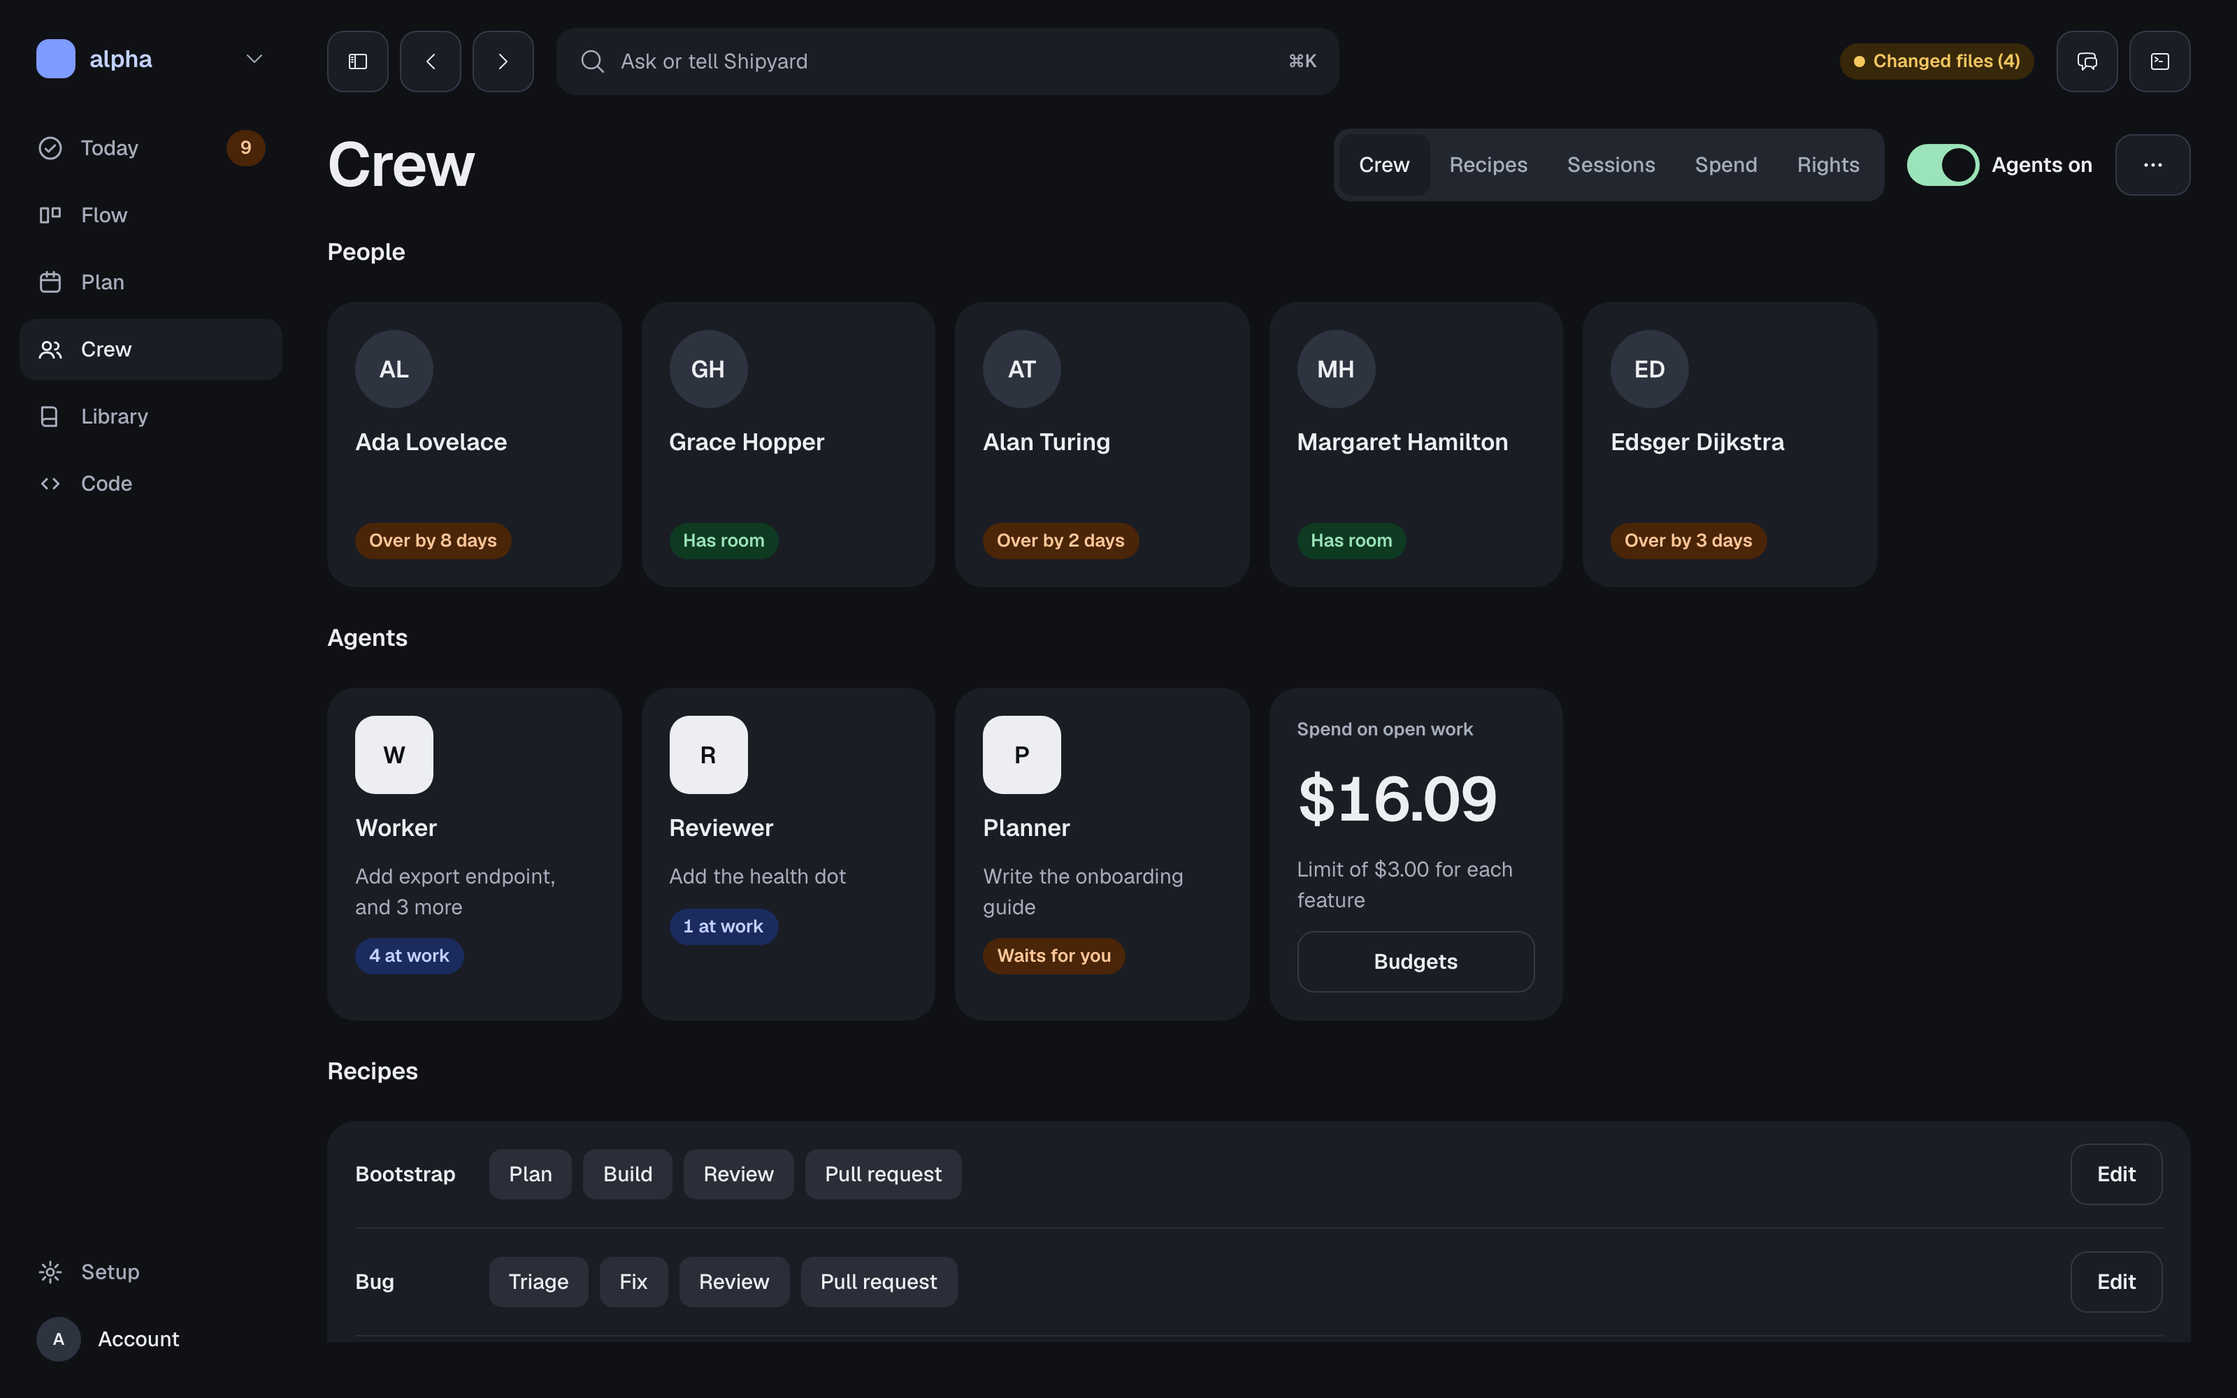
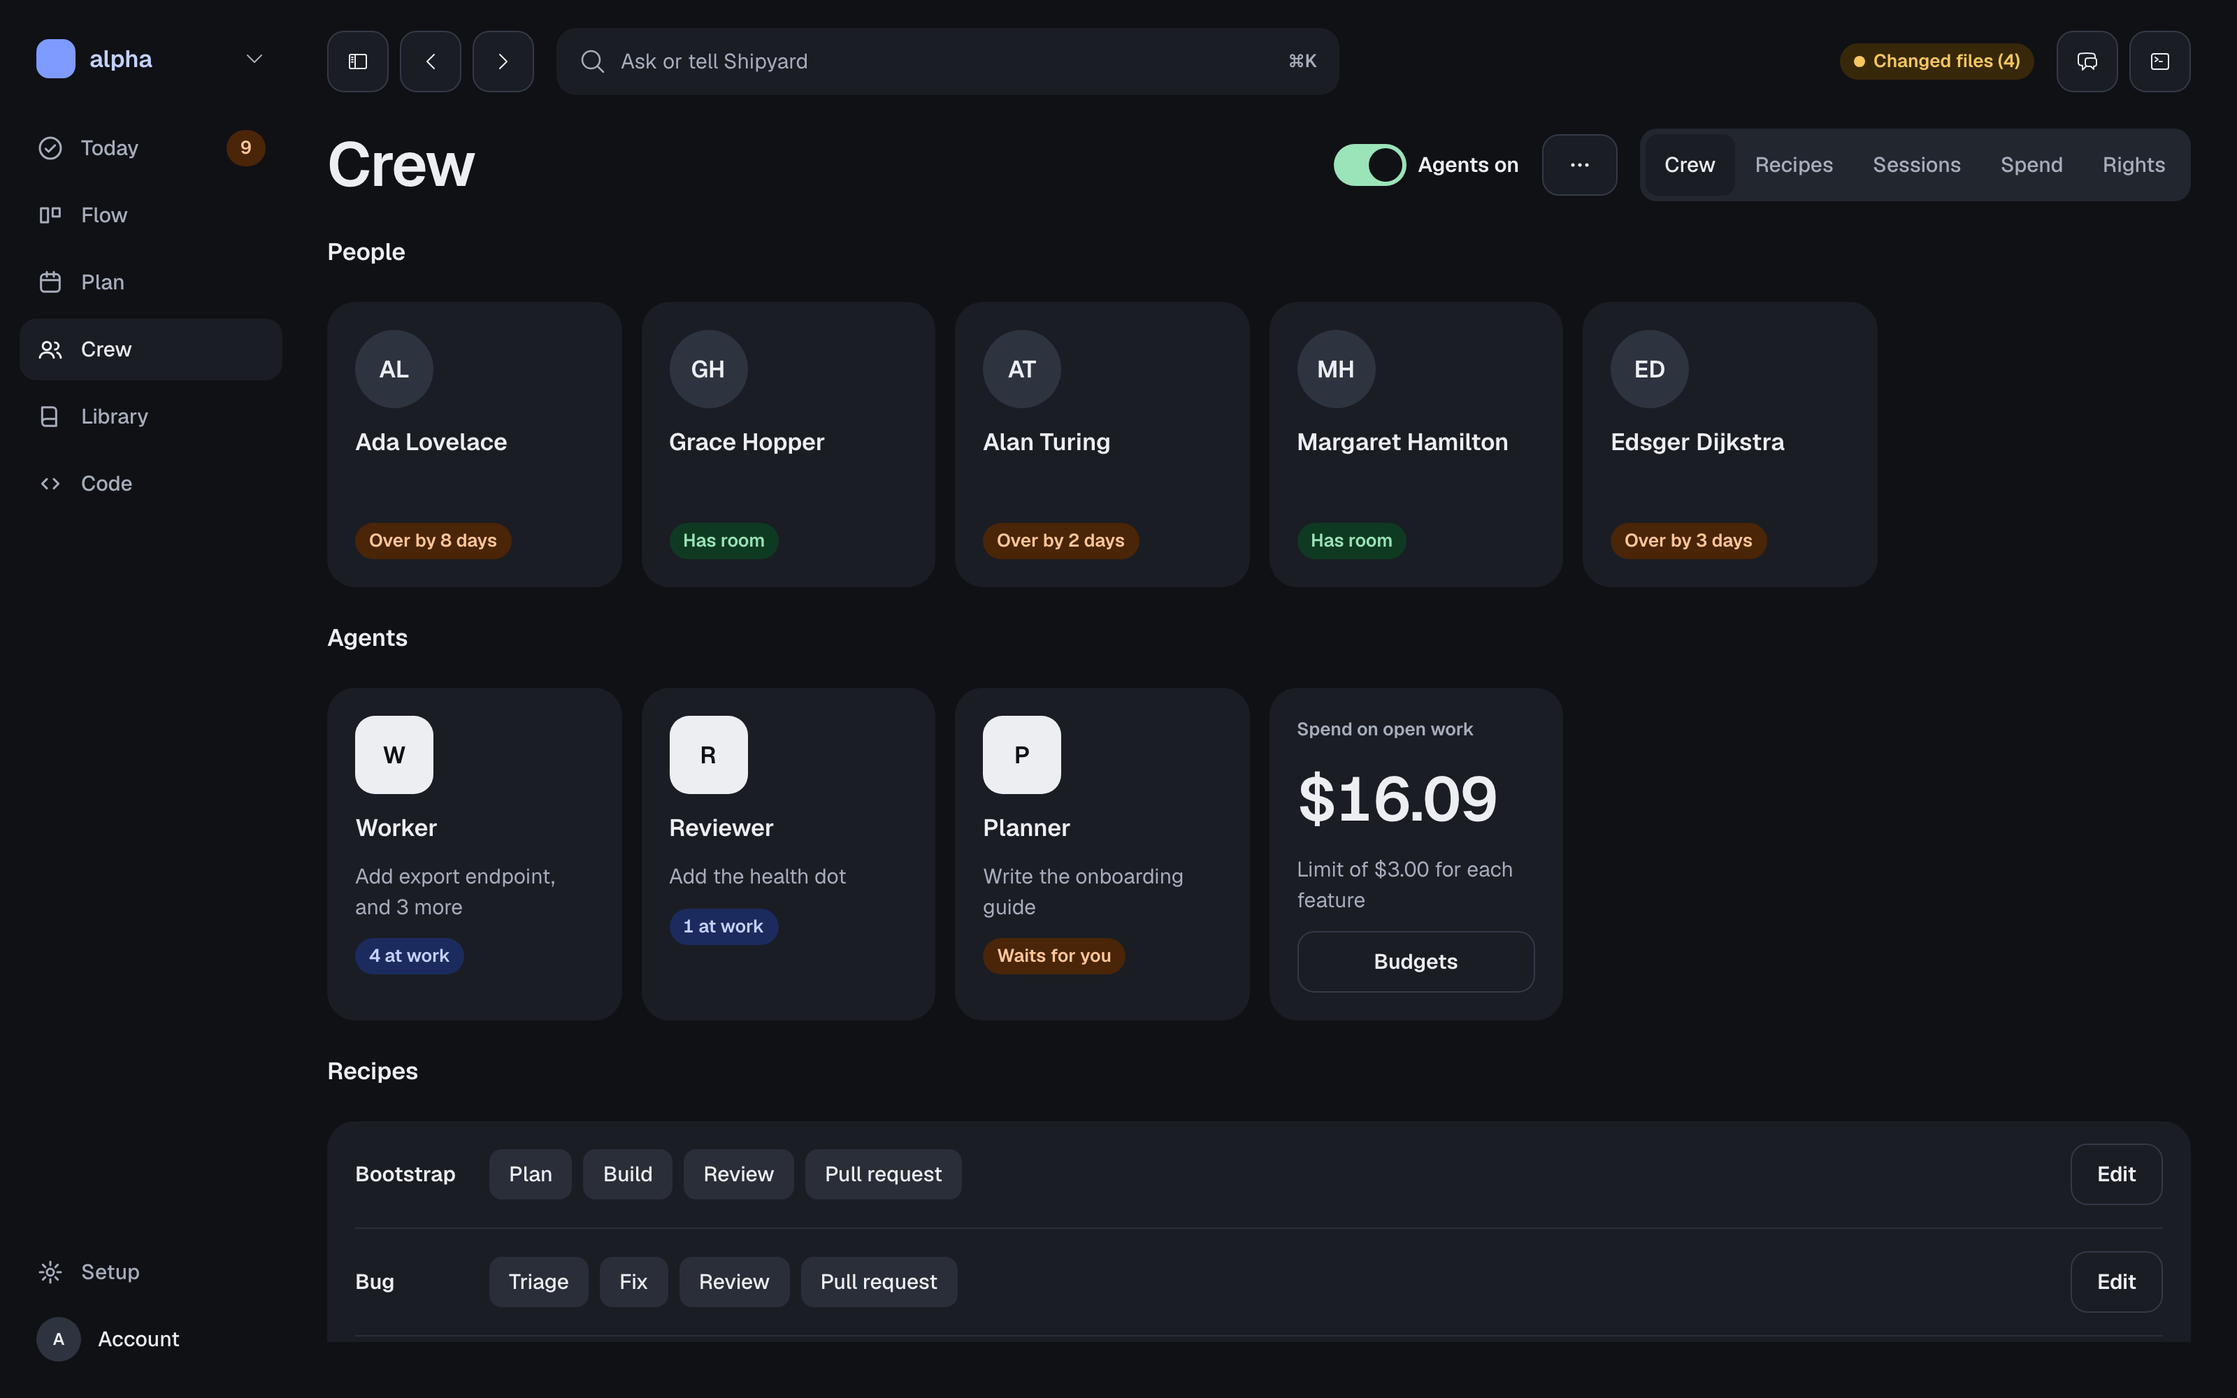
fix(ui): keep the section tabs still, fit the Flow stages, from a walk of the real window
A walk of the real window of the built app, with real clicks, showed
five defects at the default window size:
- The section switch moved sideways when the actions of a page changed.
  It is now the last part of the title row, at the right edge.
- The fifth stage of Flow was cut. The five stages fit 1280 px.
- Crew / Sessions said No sessions above the sessions of this computer.
- A session showed a placeholder as its model.
- The actions of a step of Setup / Start sat at the fold.

Docs: each task of add-windows-relay-pipe is done, the proved acceptance
boxes are ticked in the settled specs, 23 screenshots follow.

Changed region(s): [[0.5938, 0.093, 0.9688, 0.155]]

diff --git a/src/features/crew/sessions.tsx b/src/features/crew/sessions.tsx
@@ -3,7 +3,13 @@ import { useContext, useMemo, useRef, useState } from "react";
 import { nameOf } from "@/features/factory/runs/run-live";
 import { NoProject } from "@/features/shell/no-project";
 import { useGuard } from "@/features/work/guard";
-import { useFactoryWrites, useRunActions, useRuns, useSessions } from "@/lib/factory";
+import {
+	useFactoryWrites,
+	useMachineSessions,
+	useRunActions,
+	useRuns,
+	useSessions,
+} from "@/lib/factory";
 import { format, useI18n } from "@/lib/i18n";
 import { commands, type SessionView, type UnitView, unwrap } from "@/lib/ipc";
 import { useActiveProject } from "@/lib/projects";
@@ -98,6 +104,7 @@ export function CrewSessions() {
 	const search = useSearch({ strict: false }) as { session?: string; page?: string };
 	const active = useActiveProject().data;
 	const sessions = useSessions();
+	const machine = useMachineSessions().data ?? [];
 	const { rows } = useAgentRows();
 	const writes = useFactoryWrites();
 	const { failure, run } = useGuard();
@@ -193,7 +200,8 @@ export function CrewSessions() {
 
 	const here = rows.filter((r) => !over(r)).toSorted((a, b) => a.id.localeCompare(b.id, lang));
 	const shown = here.find((r) => idOf(r.session) === search.session) ?? here[0];
-	const none = here.length === 0 && !sessions.isPending;
+	// "No sessions" shows only when the card of this machine lists none either.
+	const none = here.length === 0 && machine.length === 0 && !sessions.isPending;
 	// The unit of the session shown: it knows the tool, the folder and the session id.
 	const unit = shown
 		? runs

diff --git a/src/ui/molecules/look.test.tsx b/src/ui/molecules/look.test.tsx
@@ -22,7 +22,9 @@ describe("PageHeader", () => {
 		expect(back.compareDocumentPosition(title) & Node.DOCUMENT_POSITION_FOLLOWING).toBeTruthy();
 	});
 
-	it("draws the section switch of the place before the action, and claims it until it goes", () => {
+	// The switch is the last part of the row: it stays at the right edge, so its tabs do not move
+	// when the actions of a page change.
+	it("draws the section switch of the place after the action, and claims it until it goes", () => {
 		const release = vi.fn();
 		const claim = vi.fn(() => release);
 		const { unmount } = renderApp(
@@ -32,7 +34,7 @@ describe("PageHeader", () => {
 		);
 		const nav = screen.getByRole("navigation", { name: "Scope" });
 		const action = screen.getByRole("button", { name: "Connect" });
-		expect(nav.compareDocumentPosition(action) & Node.DOCUMENT_POSITION_FOLLOWING).toBeTruthy();
+		expect(action.compareDocumentPosition(nav) & Node.DOCUMENT_POSITION_FOLLOWING).toBeTruthy();
 		expect(claim).toHaveBeenCalledOnce();
 		expect(release).not.toHaveBeenCalled();
 		unmount();

diff --git a/src/ui/molecules/page-header.tsx b/src/ui/molecules/page-header.tsx
@@ -50,8 +50,8 @@ export function PageHeader({
 					{chips ? <div className="flex flex-wrap items-center gap-1.5">{chips}</div> : null}
 				</div>
 				{/* The actions go below the title when the space is small; they never cover it. */}
+				{/* The section switch is the last part: it stays at the right edge when the actions of a page change, so its tabs do not move under the pointer. */}
 				<div className="ml-auto flex flex-wrap items-center justify-end gap-4">
-					{slot?.node}
 					{action}
 					{menu?.length ? (
 						<MenuButton
@@ -67,6 +67,7 @@ export function PageHeader({
 							items={menu.map((m) => ({ ...m, id: m.label, onSelect: m.onClick }))}
 						/>
 					) : null}
+					{slot?.node}
 				</div>
 			</div>
 		</div>

diff --git a/src/features/crew/sessions-side.tsx b/src/features/crew/sessions-side.tsx
@@ -20,7 +20,11 @@ const HEAD = "px-6 pt-3.5 pb-1.5 text-13 font-semibold text-n-11";
 const SHAPE = { working: "accent", idle: "warning", done: "neutral", unknown: "neutral" } as const;
 /** A model id in plain words: "claude-opus-4" reads "opus". */
 export const modelName = (m?: string | null) =>
-	(m ?? "").replace(/^claude-/, "").replace(/-[\d.-]+$/, "");
+	// A placeholder such as `<synthetic>` is no model name.
+	(m ?? "")
+		.replace(/^<.*>$/, "")
+		.replace(/^claude-/, "")
+		.replace(/-[\d.-]+$/, "");
 const known = (s: string): s is keyof typeof SHAPE => s in SHAPE;
 
 /** The AI sessions of this computer, started by Shipyard or not, each with its stop. Rows of the card "On this machine". */

diff --git a/src/features/onboarding/start.tsx b/src/features/onboarding/start.tsx
@@ -195,8 +195,8 @@ export function SetupStart() {
 							onPick={(id) => setPrefs({ defaultAgent: id, defaultModel: "" })}
 						/>
 					) : null}
-					{/* The actions of the step are the foot of the panel. */}
-					<div className="mt-auto flex flex-wrap items-end justify-end gap-2.5">
+					{/* The actions sit under the choices, not at the foot: a short window still shows them. */}
+					<div className="flex flex-wrap items-start justify-end gap-2.5">
 						{next ? (
 							<Button className="min-h-control" onClick={() => setChosen(next)}>
 								{s.skip}

diff --git a/src/features/flow/flow-page.tsx b/src/features/flow/flow-page.tsx
@@ -455,7 +455,8 @@ function FlowPage({ view }: { view: "flow" | "list" | "done" }) {
 				) : null}
 				{view === "flow" ? (
 					<div className="min-h-0 flex-1 overflow-auto p-0.5">
-						<div className="grid min-w-[65rem] grid-cols-5 items-start gap-3.5">
+						{/* 60rem: the five stages fit the default window (1280 px) beside the menu. */}
+						<div className="grid min-w-[60rem] grid-cols-5 items-start gap-3.5">
 							{STAGES.map((stage) => {
 								const cards = shown.filter((f) => f.stage === stage);
 								const label = t.flow.stages[stage];

diff --git a/docs/openspec/specs/app-redesign/spec.md b/docs/openspec/specs/app-redesign/spec.md
@@ -107,23 +107,23 @@ Look pass 2, Library
 
 ### Acceptance Criteria
 
-- [ ] The menu shows the six places and Setup, and no page shows two section switches.
+- [x] The menu shows the six places and Setup, and no page shows two section switches.
 - [x] The inventory test passes: each route and each palette action of today opens or runs.
-- [ ] The Ask bar answers "what blocks MVP 1" with the blocked features and one action for each.
+- [x] The Ask bar answers "what blocks MVP 1" with the blocked features and one action for each.
 - [x] A viewer sees no Code place. A tester opens Flow / Health.
-- [ ] Today shows one question with its answer controls, and the count in its title.
-- [ ] Each of the 16 run states shows in one stage of Flow, with the right mark.
-- [ ] One approval sends a feature for review, and names the pull request and the ticket move.
+- [x] Today shows one question with its answer controls, and the count in its title.
+- [x] Each of the 16 run states shows in one stage of Flow, with the right mark.
+- [x] One approval sends a feature for review, and names the pull request and the ticket move.
 - [x] Each stop state shows its one action.
-- [ ] Crew shows people and agents, and the live work has no crossing lines.
-- [ ] Plan shows the end date in its title and one card for the capacity problems.
-- [ ] Each view of Design and Knowledge opens from a Library door.
-- [ ] Health shows the gates to a role with no code right.
-- [ ] Setup shows the three scopes, and a search of the settings finds no setting in two places.
-- [ ] The accessibility run finds no control under 44 px and no sideways scroll at 960 by 600.
-- [ ] The four languages are complete, and no text says "tracker" or "forge" alone.
-- [ ] An agent proposes an estimate, a fix feature and a dashboard tile, and nothing changes before the person accepts.
-- [ ] Each Library sub-page of REQ-034 opens at its own address with a back link, and each control that moved is in the More menu, a sub-page or the Ask bar.
+- [x] Crew shows people and agents, and the live work has no crossing lines.
+- [x] Plan shows the end date in its title and one card for the capacity problems.
+- [x] Each view of Design and Knowledge opens from a Library door.
+- [x] Health shows the gates to a role with no code right.
+- [x] Setup shows the three scopes, and a search of the settings finds no setting in two places.
+- [x] The accessibility run finds no control under 44 px and no sideways scroll at 960 by 600.
+- [x] The four languages are complete, and no text says "tracker" or "forge" alone.
+- [x] An agent proposes an estimate, a fix feature and a dashboard tile, and nothing changes before the person accepts.
+- [x] Each Library sub-page of REQ-034 opens at its own address with a back link, and each control that moved is in the More menu, a sub-page or the Ask bar.
 
 ### Existing References
 

diff --git a/.agents/progress/ux-review.md b/.agents/progress/ux-review.md
@@ -104,10 +104,13 @@ A full review of each screen and each state of the app after the redesign. The a
 - The owner gave Screen Recording access. A picture of the real window of the built app (a portable copy with its own data) showed two defects of Code / History that the browser pictures do not show: both are fixed. Accessibility access is still off, so no tool clicks in the window.
 - Windows relay tests (T005): two tests prove the relay with a real server process on each system, through the example `fake_mcp`; a third reads the access list of the pipe. They are in two local commits. The push is refused by the company proxy (Zscaler, HTTP 403 on the upload), so the Windows job has not run them.
 
+- The owner gave Accessibility access. A walk of the real window of the built app (portable copy, real clicks, 21 pictures of the seven places and their section tabs) found five defects that the browser checks do not show at the default window size: the fifth stage of Flow was cut, the section tabs moved sideways between the pages of a place, Crew / Sessions said No sessions above four sessions, a session showed `<synthetic>` as its model, and the actions of a Setup step sat at the fold. All are fixed and seen fixed in the real window.
+- Windows relay tests: the Windows job ran them on the temporary branch `ci/windows-relay-tests` and passed. Task T005 of `add-windows-relay-pipe` is done.
+
 ## Open
 
-1. `add-windows-relay-pipe` T005: three tests that run on Windows only. They need a fake MCP server that runs on Windows. The read timeout (T006) is done.
+1. `add-windows-relay-pipe`: each task is done. The change waits for its archive.
 2. An agent of a run starts with each MCP server of the person's own Claude Code set-up. The owner keeps it so (2026-11-27).
 3. The comment button of a diff line is 24 px, by decision (see Decisions).
 4. The browser mock does not lower the rights of a member who is not an admin from a personal role.
-5. The windows of the installed app are not driven by a tool: macOS gives this session no accessibility access and no screen recording access. The checks ran on the browser build, on the outside server of the built app and on the run log of a real run.
+5. The walk of the real window covered the seven places and their section tabs on a project with no ticket and no run. The pages of a feature and of a run were checked in the browser build only.

diff --git a/CHANGELOG.fr.md b/CHANGELOG.fr.md
@@ -1,6 +1,8 @@
 # Journal des modifications
 
 ## [0.2.0]
+- Le sélecteur de section d'une page reste au bord droit de la ligne du titre : ses onglets ne bougent plus quand les actions d'une page changent. Les cinq étapes de Flux tiennent dans la fenêtre par défaut.
+- Équipe / Sessions ne dit plus Aucune session au-dessus d'une liste de sessions de cet ordinateur, et une session n'affiche plus un texte de remplacement comme modèle. Les actions d'une étape de Configuration / Démarrer sont sous ses choix.
 - Code / Historique : le message d'un commit garde sa place à côté d'un long nom de branche, et le texte d'un commit se lit en paragraphes, sans lignes courtes coupées.
 - Une deuxième passe a tranché chacun des 93 constats de la revue des écrans et corrigé 43 mises en page en tout : lignes et boutons alignés dans Équipe, Code, Plan, Bibliothèque et Configuration, états vides avec des mots, une seule hauteur pour les contrôles d'une ligne, texte lisible dans la visite, et le mot Arrêter sur les lignes de session.
 - Une passe sur chaque écran a corrigé ces mises en page : le bouton Commit de Code reste sur la ligne du message ; le cinquième chiffre d'Équipe / Dépenses / Utilisation est sur la ligne des autres ; le mois de Mon temps tient sur une ligne de jours ; Passer est au pied d'une étape de Configuration / Démarrer, et ses trois cartes remplissent la ligne.

diff --git a/CHANGELOG.md b/CHANGELOG.md
@@ -1,6 +1,8 @@
 # Changelog
 
 ## [0.2.0]
+- The section switch of a page stays at the right edge of the title row: its tabs no longer move when the actions of a page change. The five stages of Flow fit the default window.
+- Crew / Sessions no longer says No sessions above a list of sessions of this computer, and a session shows no placeholder as its model. The actions of a step of Setup / Start sit under its choices.
 - Code / History: the message of a commit keeps its room beside a long branch name, and the text of a commit reads as paragraphs, with no short broken lines.
 - A second pass settled each of the 93 findings of the screen review and fixed 43 layouts in all: aligned rows and buttons in Crew, Code, Plan, Library and Setup, empty states with words, one height for the controls of a row, readable text in the tour, and a Stop word on the session rows.
 - A pass on each screen fixed these layouts: the Commit button of Code stays on the row of the message; the fifth figure of Crew / Spend / Usage is on the row of the others; the month of My time is one row of days; Skip is at the foot of a step of Setup / Start, and its three cards fill the row.

diff --git a/docs/openspec/changes/add-windows-relay-pipe/specs/windows-relay/tasks.md b/docs/openspec/changes/add-windows-relay-pipe/specs/windows-relay/tasks.md
@@ -16,7 +16,7 @@ Plan: [plan.md](./plan.md)
 - [x] T003 Implement the named pipe in `crates/shipyard-mcp/src/relay.rs` and listen on it in `crates/shipyard-app/src/lib.rs` under `cfg(windows)`. Covers REQ-001, REQ-002.
 - [x] T004 Add one EN and one FR changelog line.
 
-- [ ] T005 Add the Windows tests that T002 names but the first build lacks: a second turn reuses the open server, a closed app starts the server, another user is refused. They need a fake MCP server that runs on Windows. Covers REQ-001, REQ-002.
+- [x] T005 Add the Windows tests that T002 names but the first build lacks. `crates/shipyard-mcp/tests/relay_real_server.rs` proves with the example server `fake_mcp` that a second turn reuses the open server and that a closed app starts the server. `crates/shipyard-mcp/tests/relay_windows.rs` reads the access list of the pipe: one entry, for the owner. Covers REQ-001, REQ-002.
 - [x] T006 Give the Windows `ask` in `crates/shipyard-mcp/src/relay.rs` the read timeout of Unix (120 s), with a test of the wait in the same file. Covers REQ-001.
 
 ## Completion Check
